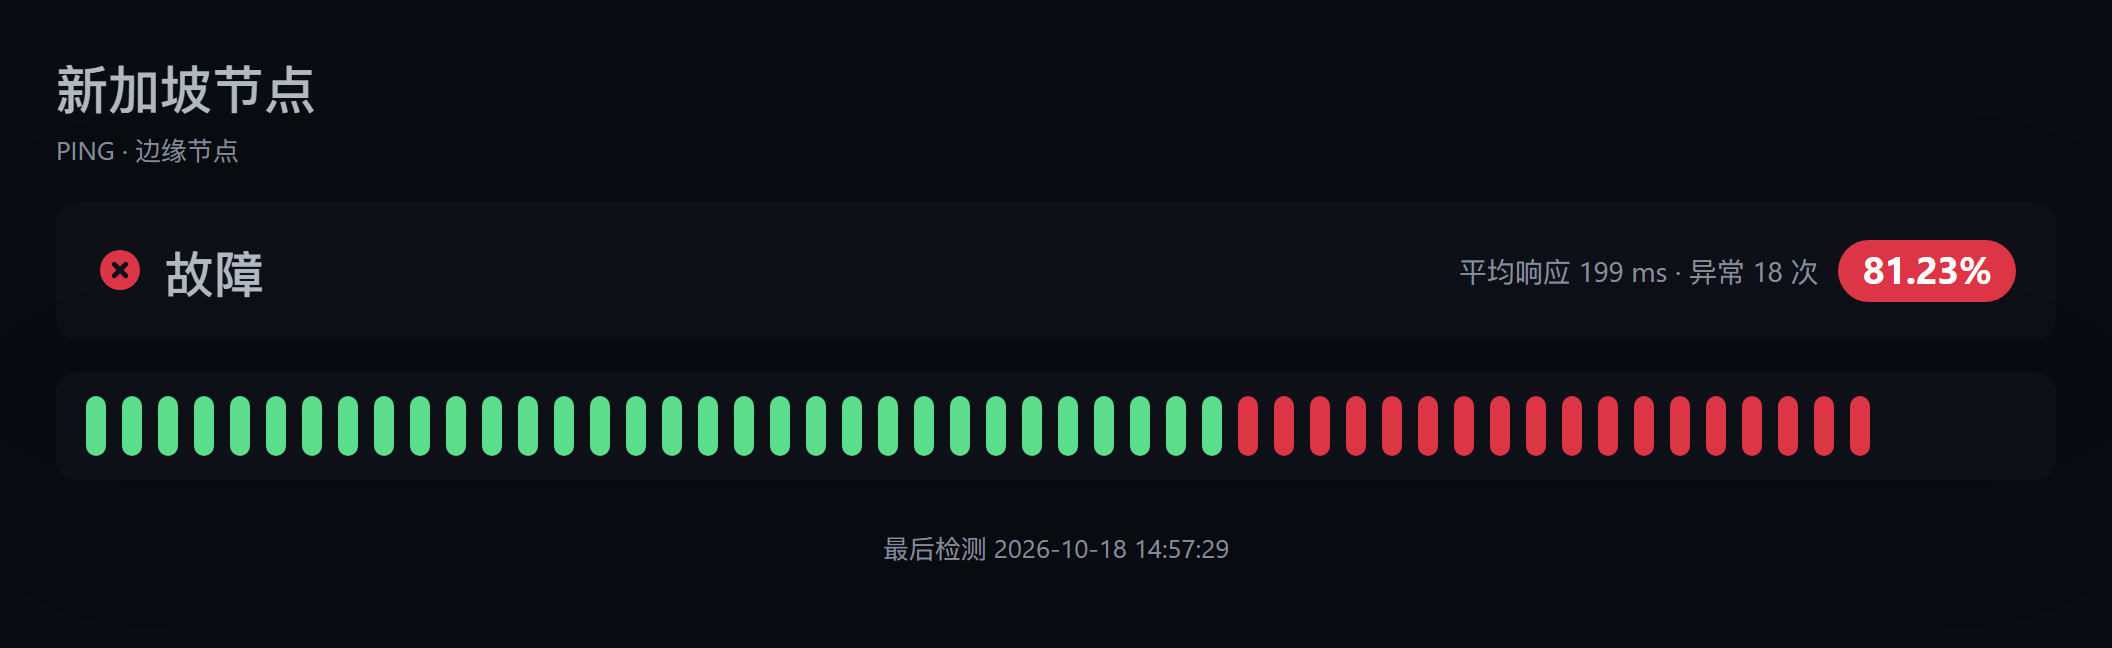
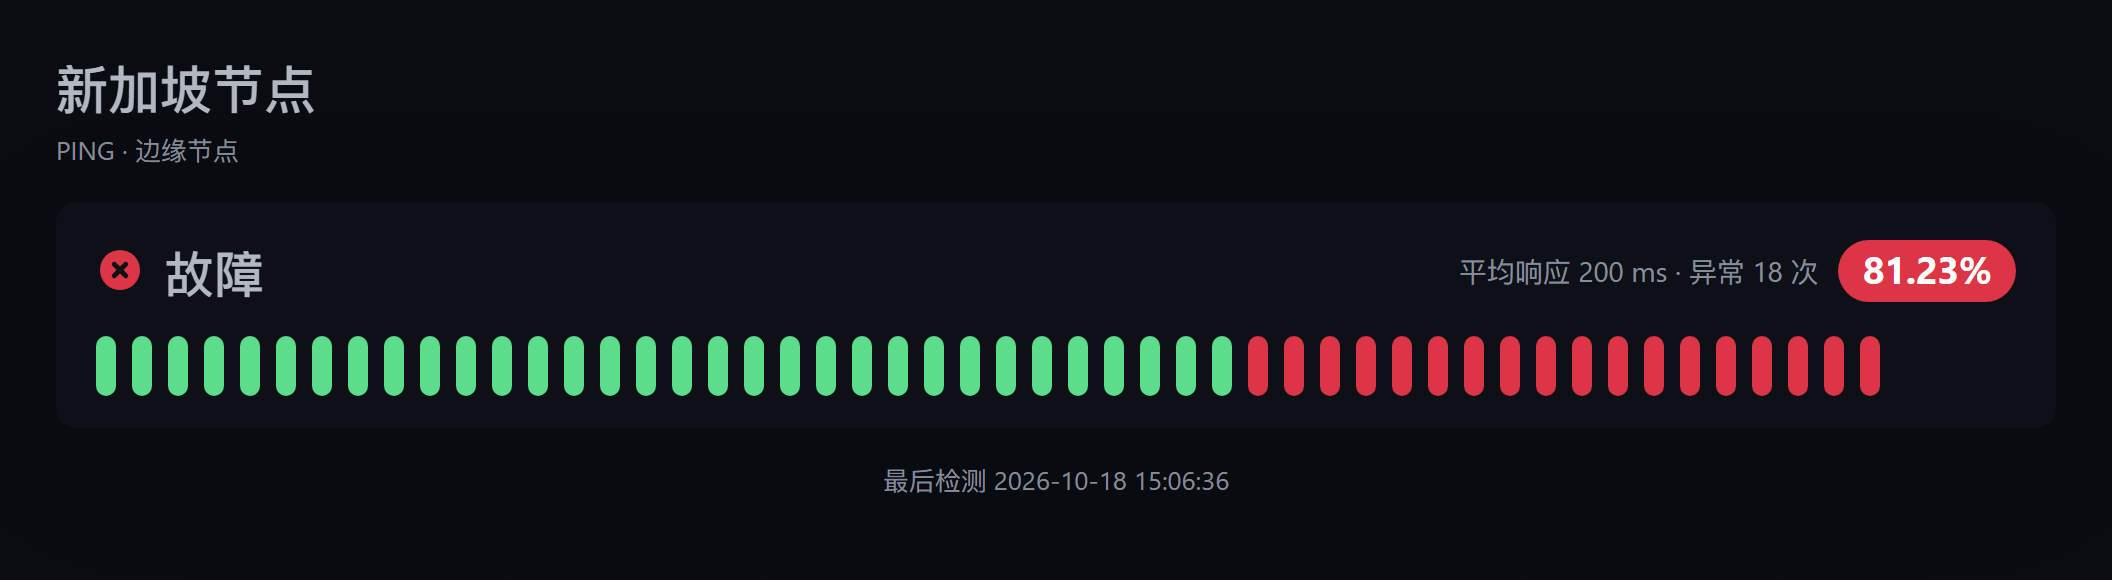
feat: 详情图合并为一张卡片
- 状态文字与心跳条放进同一张卡片：文字在上、心跳条在下，不再分成两张卡片
- 状态行（图标 + 状态 + 平均响应 / 异常次数 + 可用率徽章）与心跳条间距 14px
- 整图 1056×324 → 1056×290（@2x 2112×648 → 2112×580）
- 同步 docs/preview-detail.png 与 AGENTS.md 的模板约定

diff --git a/src/template.js b/src/template.js
@@ -265,7 +265,7 @@ const baseCss = (theme) => {
     padding: 24px; margin-bottom: 24px;
     font-size: 25px; font-weight: 700;
   }
-  .overall .icon, .detail-status .icon { display: flex; align-items: center; flex: 0 0 auto; }
+  .overall .icon, .detail-head .icon { display: flex; align-items: center; flex: 0 0 auto; }
   .desc { padding: 8px; margin-bottom: 16px; white-space: pre-line; }
   .group { margin-bottom: 48px; }
   .group-title { font-size: 26px; font-weight: 500; line-height: 1.2; }
@@ -288,14 +288,14 @@ const baseCss = (theme) => {
   }
   .beat.empty { background: ${vars.beatEmpty}; }
   .empty-tip { position: absolute; left: 0; top: 20px; width: 100%; text-align: center; }
-  /* 单监控项详情图：只保留标题、状态卡、心跳条与一行页脚，尺寸比状态图更紧凑 */
+  /* 单监控项详情图：文字在上、心跳条在下，共用同一张卡片，整体比状态图紧凑 */
   .detail-title { font-size: 26px; font-weight: 500; line-height: 1.2; margin-bottom: 6px; }
   .detail-sub { margin: 0 0 16px; font-size: 13px; color: ${vars.muted}; }
-  .detail-status { display: flex; align-items: center; gap: 10px; padding: 16px 20px; font-size: 25px; font-weight: 700; }
+  .detail-card { padding: 16px 20px; }
+  .detail-head { display: flex; align-items: center; gap: 10px; font-size: 25px; font-weight: 700; }
   .detail-meta { margin-left: auto; font-size: 14px; font-weight: 400; color: ${vars.muted}; }
-  .detail-beats { margin-top: 16px; padding: 12px 15px; }
-  .detail-beats .beats { margin-top: 0; }
-  .detail-ft { margin: 24px 0 12px; text-align: center; font-size: 13px; color: ${vars.muted}; }
+  .detail-card .beats { margin-top: 14px; }
+  .detail-ft { margin: 16px 0 12px; text-align: center; font-size: 13px; color: ${vars.muted}; }
   .ft { margin-top: 48px; margin-bottom: 24px; text-align: center; font-size: 14px; }
   .ft p { margin-bottom: 16px; }
   .refresh-info { opacity: .7; }
@@ -437,8 +437,8 @@ export const buildStatusHtml = (snapshot, options = {}) => {
 /**
  * 生成单个监控项详情图 HTML
  *
- * 只保留四段：标题、状态卡（状态 + 平均响应 / 异常次数 + 可用率徽章）、心跳条、一行页脚。
- * 页面宽度比状态图窄不了多少，但纵向尽量收紧，避免在聊天窗口里占满一屏。
+ * 结构只有标题、一张卡片（上半行是状态 + 平均响应 / 异常次数 + 可用率徽章，下半是心跳条）和一行页脚；
+ * 页面宽度与状态图相同，但纵向尽量收紧，避免在聊天窗口里占满一屏。
  * @param {any} monitor 监控项
  * @param {any} snapshot 快照（当前详情图不需要，保留参数以兼容调用方）
  * @param {{ theme?: string, timezone?: string, width?: number, maxHeartbeats?: number }} [options]
@@ -478,13 +478,13 @@ export const buildMonitorHtml = (monitor, snapshot, options = {}) => {
   <div class="page">
     <h1 class="detail-title">${name}</h1>
     <div class="detail-sub">${subParts.map((part) => escapeHtml(part)).join(' · ')}</div>
-    <div class="shadow-box detail-status">
-      <span class="icon">${svgIcon(status.icon, status.color, vars.card, 24)}</span>
-      <span>${status.label}</span>
-      <span class="detail-meta">平均响应 ${formatPing(monitor.avgPing)} · 异常 ${downCount} 次</span>
-      <span class="badge" style="background:${badgeBg};color:${badgeFg}">${formatUptime(monitor.uptime24)}</span>
-    </div>
-    <div class="shadow-box detail-beats">
+    <div class="shadow-box detail-card">
+      <div class="detail-head">
+        <span class="icon">${svgIcon(status.icon, status.color, vars.card, 24)}</span>
+        <span>${status.label}</span>
+        <span class="detail-meta">平均响应 ${formatPing(monitor.avgPing)} · 异常 ${downCount} 次</span>
+        <span class="badge" style="background:${badgeBg};color:${badgeFg}">${formatUptime(monitor.uptime24)}</span>
+      </div>
       <div class="beats">${buildBeats(beats, slots, options)}</div>
     </div>
     <footer class="detail-ft">最后检测 ${lastCheck}</footer>

diff --git a/AGENTS.md b/AGENTS.md
@@ -492,11 +492,12 @@ node test/preview.mjs
    - 排版顺序：标题 → 整体状态卡 → 描述 → 分组；页脚居中、14px，`.refresh-info` 用 `opacity: .7`。
    - 字体栈与正文基准沿用 `#app` 的一套（16px / line-height 1.5），中文回退插在 `sans-serif` 之前。
    改配色或尺寸时同步 README 预览图。
-7. 单监控项详情图（`buildMonitorHtml`）刻意比状态图紧凑，只保留四段：标题 → 状态卡 → 心跳条 → 一行页脚：
-   - 状态卡一行放「状态图标 + 状态文字 + `平均响应 … · 异常 N 次` + 可用率徽章」，字号 25px / 700、内边距 16px 20px；
-     右侧指标用 14px 的 secondary 色，靠 `margin-left: auto` 顶到徽章左边。
-   - 不要再加回四宫格统计卡：可用率已经在徽章、异常次数已经在状态卡右侧，加回去就是重复；`最近响应` 信息量低也一并去掉。
-   - 标题 26px / 500、副标题 13px、页脚 13px，各段间距统一 16px，整图高度约为状态图的四分之一。
+7. 单监控项详情图（`buildMonitorHtml`）刻意比状态图紧凑，只有三段：标题 → 一张卡片 → 一行页脚。
+   - 卡片上半行是「状态图标 + 状态文字 + `平均响应 … · 异常 N 次` + 可用率徽章」，字号 25px / 700；
+     右侧指标用 14px 的 secondary 色，靠 `margin-left: auto` 顶到徽章左边；下半行是心跳条，`margin-top: 14px`。
+   - 文字与心跳条必须留在同一张卡片里（`.detail-card`），不要再拆成两张卡片分层。
+   - 不要再加回四宫格统计卡：可用率已经在徽章、异常次数已经在卡片右上，加回去就是重复；`最近响应` 信息量低也一并去掉。
+   - 标题 26px / 500、副标题 13px、页脚 13px，卡片内边距 16px 20px，各段间距统一 16px。
 
 ### 修改告警文案
 
